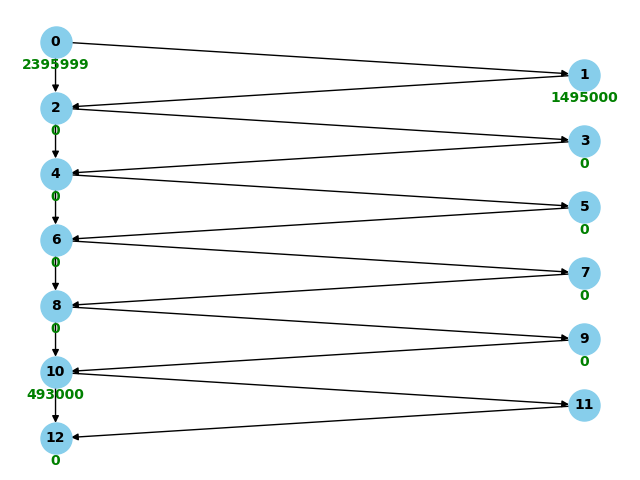
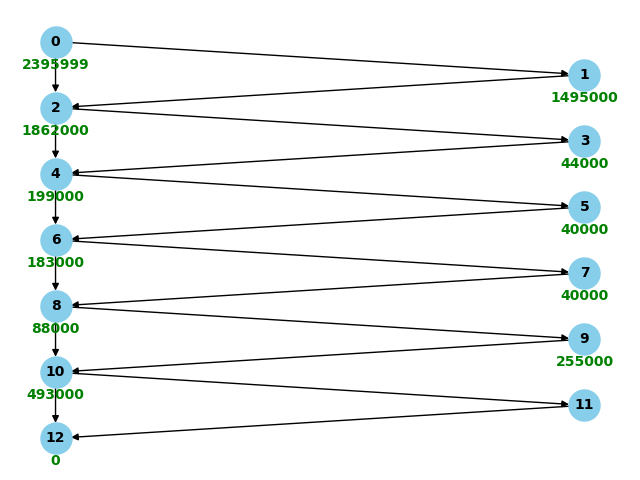
Updated pattern for double-word instruction check

diff --git a/extract.py b/extract.py
@@ -62,7 +62,8 @@ class Extractor():
             re.search(pattern.DS_INST, line) or \
             re.search(pattern.VMEM_INST, line) or \
             re.search(pattern.DOUBLE_WORD_ALU, line) or \
-            re.search(pattern.DOUBLE_WORD_COMPARE, line))
+            re.search(pattern.DOUBLE_WORD_COMPARE, line) or \
+            re.search(pattern.DOUBLE_WORD_INST, line))
 
     def parse_asm(self) -> None:
         """

diff --git a/src/pattern.py b/src/pattern.py
@@ -16,6 +16,7 @@ BB_LABEL = r"^(\;\s*%bb\.[0-9]+|BB[0-9]+_[0-9]+)"
 KERNEL_START = r"^\;\s*%bb\.0"
 KERNEL_END = r"^s_endpgm.*"
 DOUBLE_WORD_COMPARE = r"^v_[^\s]*\ss.*"
+DOUBLE_WORD_INST = r"v_.*_e64.*"
 DOUBLE_WORD_ALU_INSTS = [
     "v_add_f64",
     "v_mul_f64",
